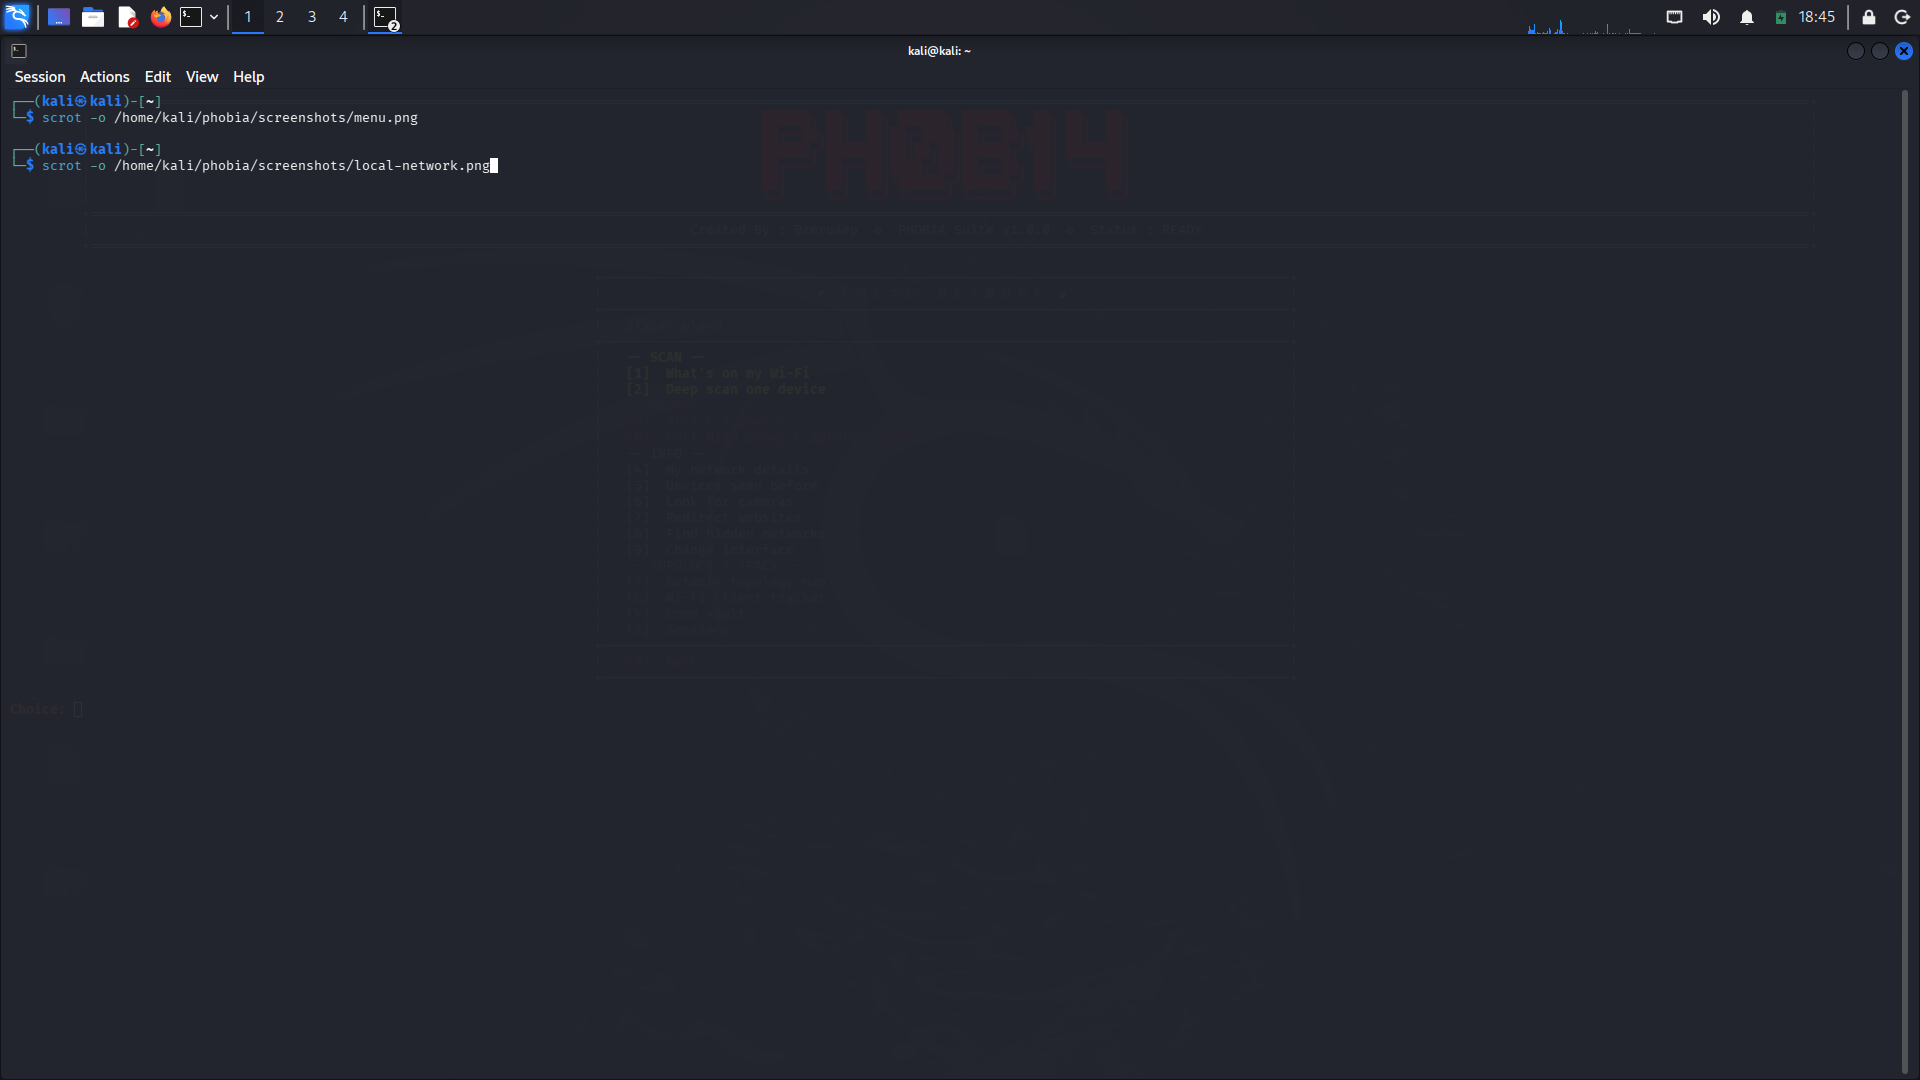
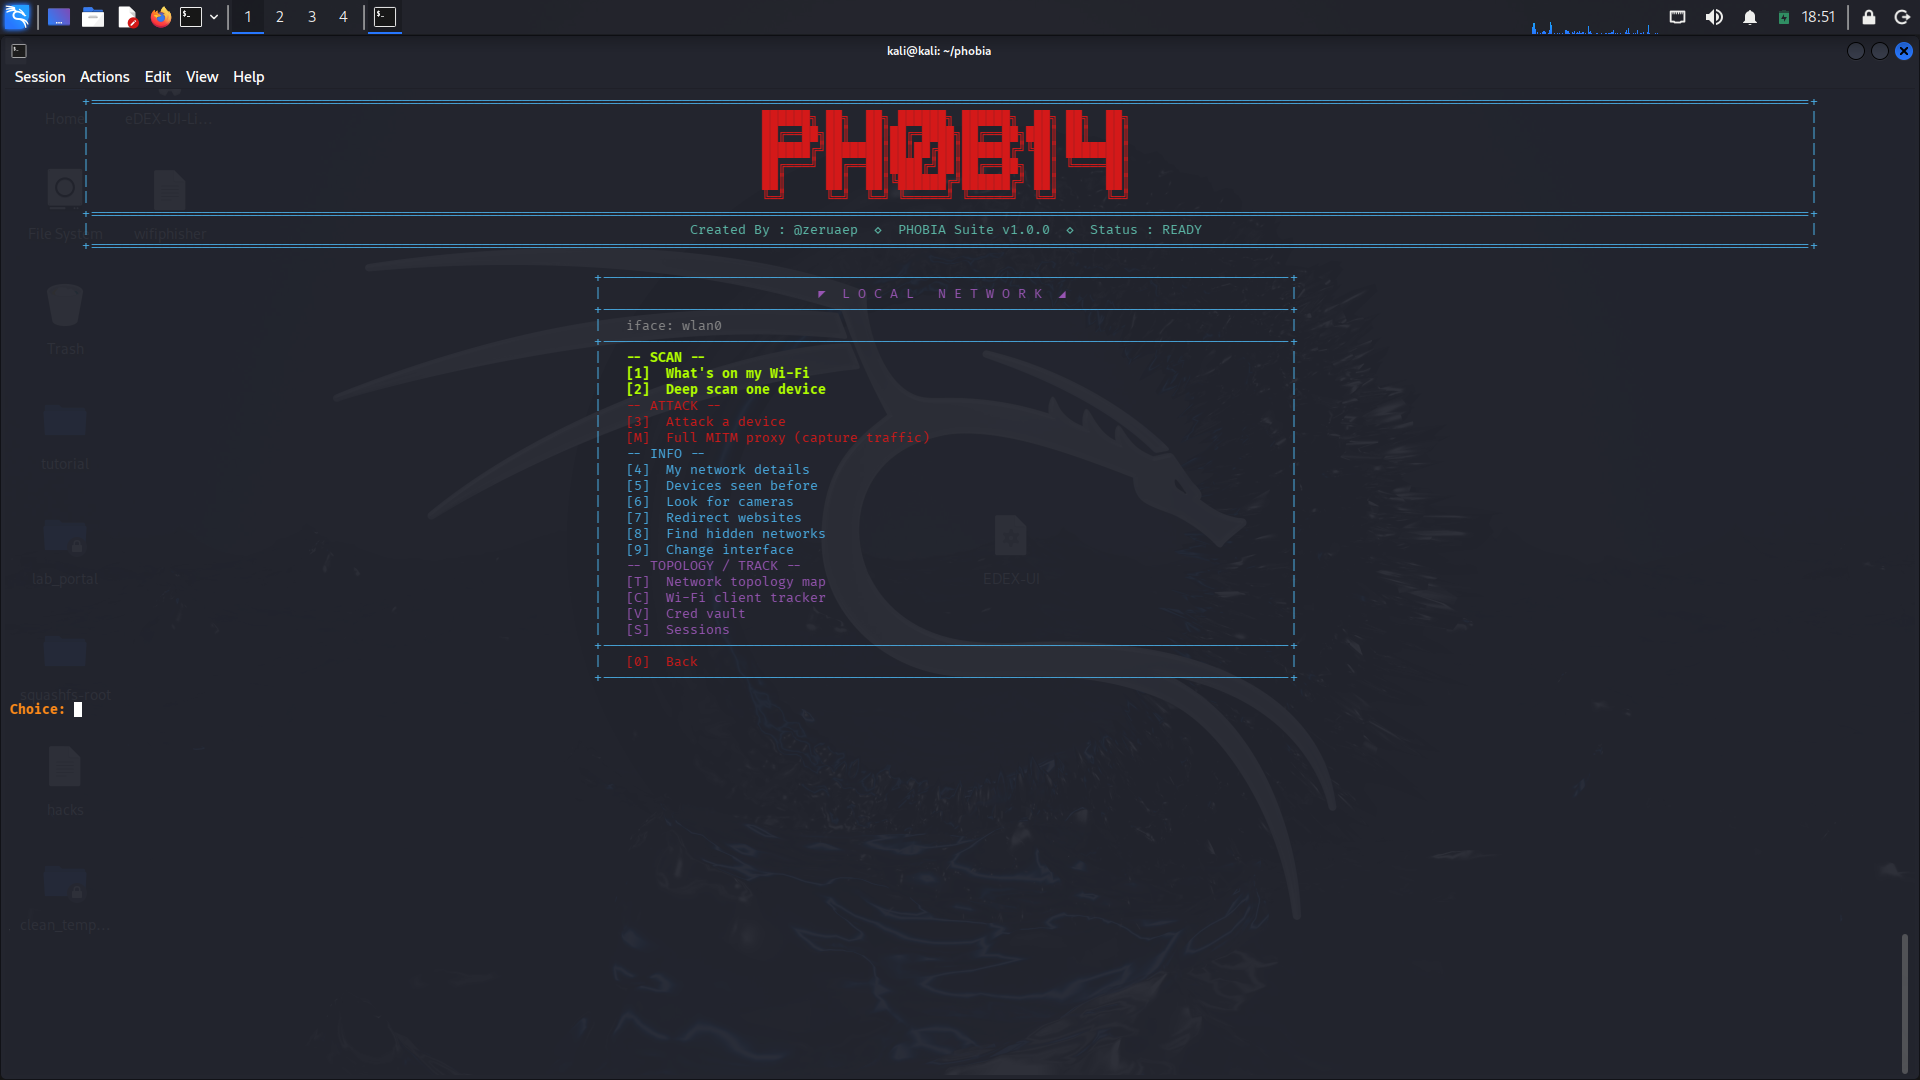
docs: polish README with intro + interface screenshots
- hero: menu.png (wide 3-column attack surface)
- intro.png: shark flash + WE ARE PH0B14 banner
- demo.gif: full user journey
- submenu screenshots for Local Network and WiFi menus
- feature tiers (stable / experimental / in-progress)

diff --git a/README.md b/README.md
@@ -10,6 +10,14 @@
 
 ---
 
+## The intro
+
+![intro](screenshots/intro.png)
+
+*shark flash → "WE ARE PH0B14" typing animation*
+
+---
+
 ## Watch it work
 
 ![demo](demo.gif)
@@ -64,12 +72,11 @@ Honest split of what's tested vs. what isn't.
 
 ## The interface
 
-![menu](screenshots/menu.png)
-
 ![local network](screenshots/local-network.png)
 
 ![wifi menu](screenshots/wifi-menu.png)
----
+
+
 
 ## What it does
 
